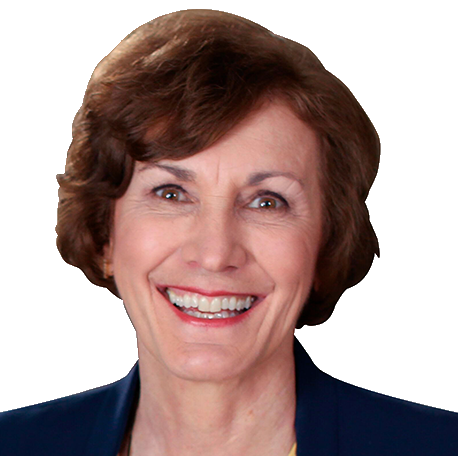
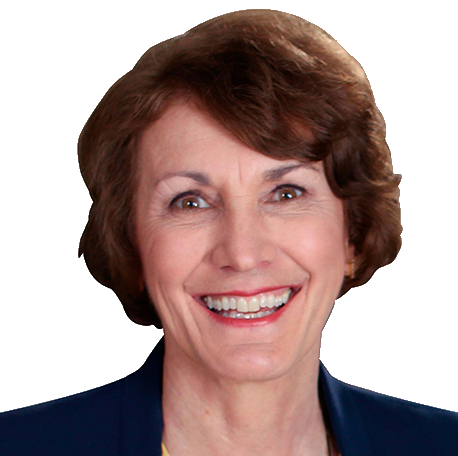
Add more portraits

diff --git a/src/App.js b/src/App.js
@@ -179,19 +179,19 @@ class App extends Component {
           <p>
             <Button className="footerButton" variant="outline-secondary"
               href={Constants.githubLink} target="_blank" rel="noopener noreferrer">
-              Contribute<i className="fab fa-github fa-lg"></i>
+              <i className="fab fa-github fa-lg"></i>Contribute
             </Button>
             <Button className="footerButton" variant="outline-secondary"
               href={Constants.facebookLink} target="_blank" rel="noopener noreferrer">
-              Share<i className="fab fa-facebook fa-lg"></i>
+              <i className="fab fa-facebook fa-lg"></i>Share
             </Button>
             <Button className="footerButton" variant="outline-secondary"
               href={Constants.twitterLink} target="_blank" rel="noopener noreferrer">
-              Tweet<i className="fab fa-twitter fa-lg"></i>
+              <i className="fab fa-twitter fa-lg"></i>Tweet
             </Button>
             <Button className="footerButton" variant="outline-secondary"
               href={Constants.redditLink} target="_blank" rel="noopener noreferrer">
-              Post<i className="fab fa-reddit fa-lg"></i>
+              <i className="fab fa-reddit fa-lg"></i>Submit
             </Button>
           </p>
         </center>

diff --git a/src/data/candidateInfo.js b/src/data/candidateInfo.js
@@ -151,9 +151,9 @@ export default {
       demImg: 'doug-jones.png',
       demDonate: 'https://secure.actblue.com/donate/jones-homepage1',
 
-      repId: 'S6AL00195',
-      repName: 'Jeff Sessions',
-      repImg: 'jeff-sessions.png',
+      repId: 'S0AL00230',
+      repName: 'Tommy Tuberville',
+      repImg: 'tommy-tuberville.png',
     },
     {
       state: 'Kentucky',
@@ -176,12 +176,12 @@ export default {
 
       demId: 'S0NH00219',
       demName: 'Jeanne Shaheen',
-      demImg: 'democrat-solid.svg',
+      demImg: 'jeanne-shaheen.png',
       demDonate: 'https://secure.actblue.com/donate/shaheen-website/',
 
       repId: 'S0NH00334',
       repName: 'Corky Messner',
-      repImg: 'republican-solid.svg',
+      repImg: 'corky-messner.png',
     },
     {
       state: 'Alaska',
@@ -232,12 +232,12 @@ export default {
 
       demId: 'S8MS00287',
       demName: 'Mike Espy',
-      demImg: 'democrat-solid.svg',
+      demImg: 'mike-espy.png',
       demDonate: 'https://secure.actblue.com/donate/espy-web-2020',
 
       repId: 'S8MS00261',
       repName: 'Cindy Hyde-Smith',
-      repImg: 'republican-solid.svg',
+      repImg: 'cindy-hydesmith.png',
     },
     {
       state: 'South Carolina',

diff --git a/src/index.css b/src/index.css
@@ -35,7 +35,6 @@ img {
 
 .fab {
   color: #6c757d;
-  margin-left: 5px;
   margin-right: 5px;
 }
 
